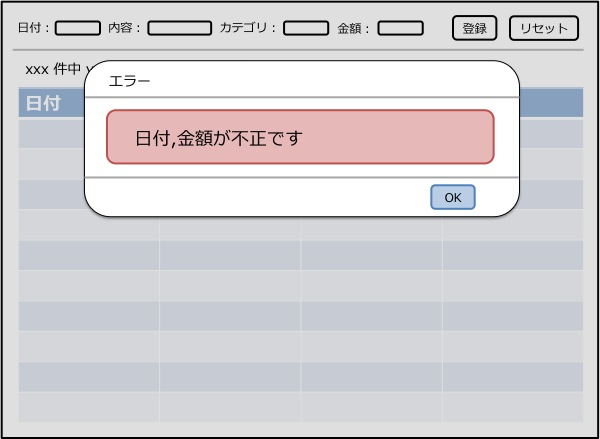
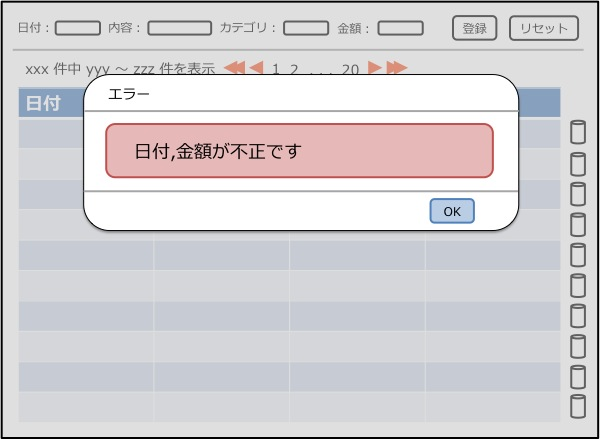
Algieba remove ui (#100)
* update usecase

* update usecase

* update ui

* update external spec

* remove ajax description

* update CHANGELOG.md

diff --git a/index.rst b/index.rst
@@ -48,6 +48,7 @@ Welcome to PaymentManager's documentation!
      検索コントローラー -- (収支を検索する)
      (収支を検索する) -- 収支
      (収支を更新する) -- 収支
+     Webブラウザ -- (収支を削除する)
      (収支を削除する) -- 収支
      登録コントローラー -- (収支を計算する)
      (収支を計算する) -- 収支

diff --git a/algieba/external.rst b/algieba/external.rst
@@ -101,7 +101,7 @@
 
 - 最新の収支から順番に表示される
 - 1ページ50件の収支が表示される
-- 登録成功時，画面遷移なしで表に登録した収支が表示される
+- 収支情報の右側にあるボタンを押すと、対応する収支情報が削除される
 
 管理画面（登録失敗時）
 ^^^^^^^^^^^^^^^^^^^^^^

diff --git a/CHANGELOG.md b/CHANGELOG.md
@@ -1,6 +1,9 @@
 chort
 =====
 
+- 4.3.0:
+  - [Algieba] update version to 2.4.0
+
 - 4.2.0:
   - [Algieba] update version to 2.3.0
 
